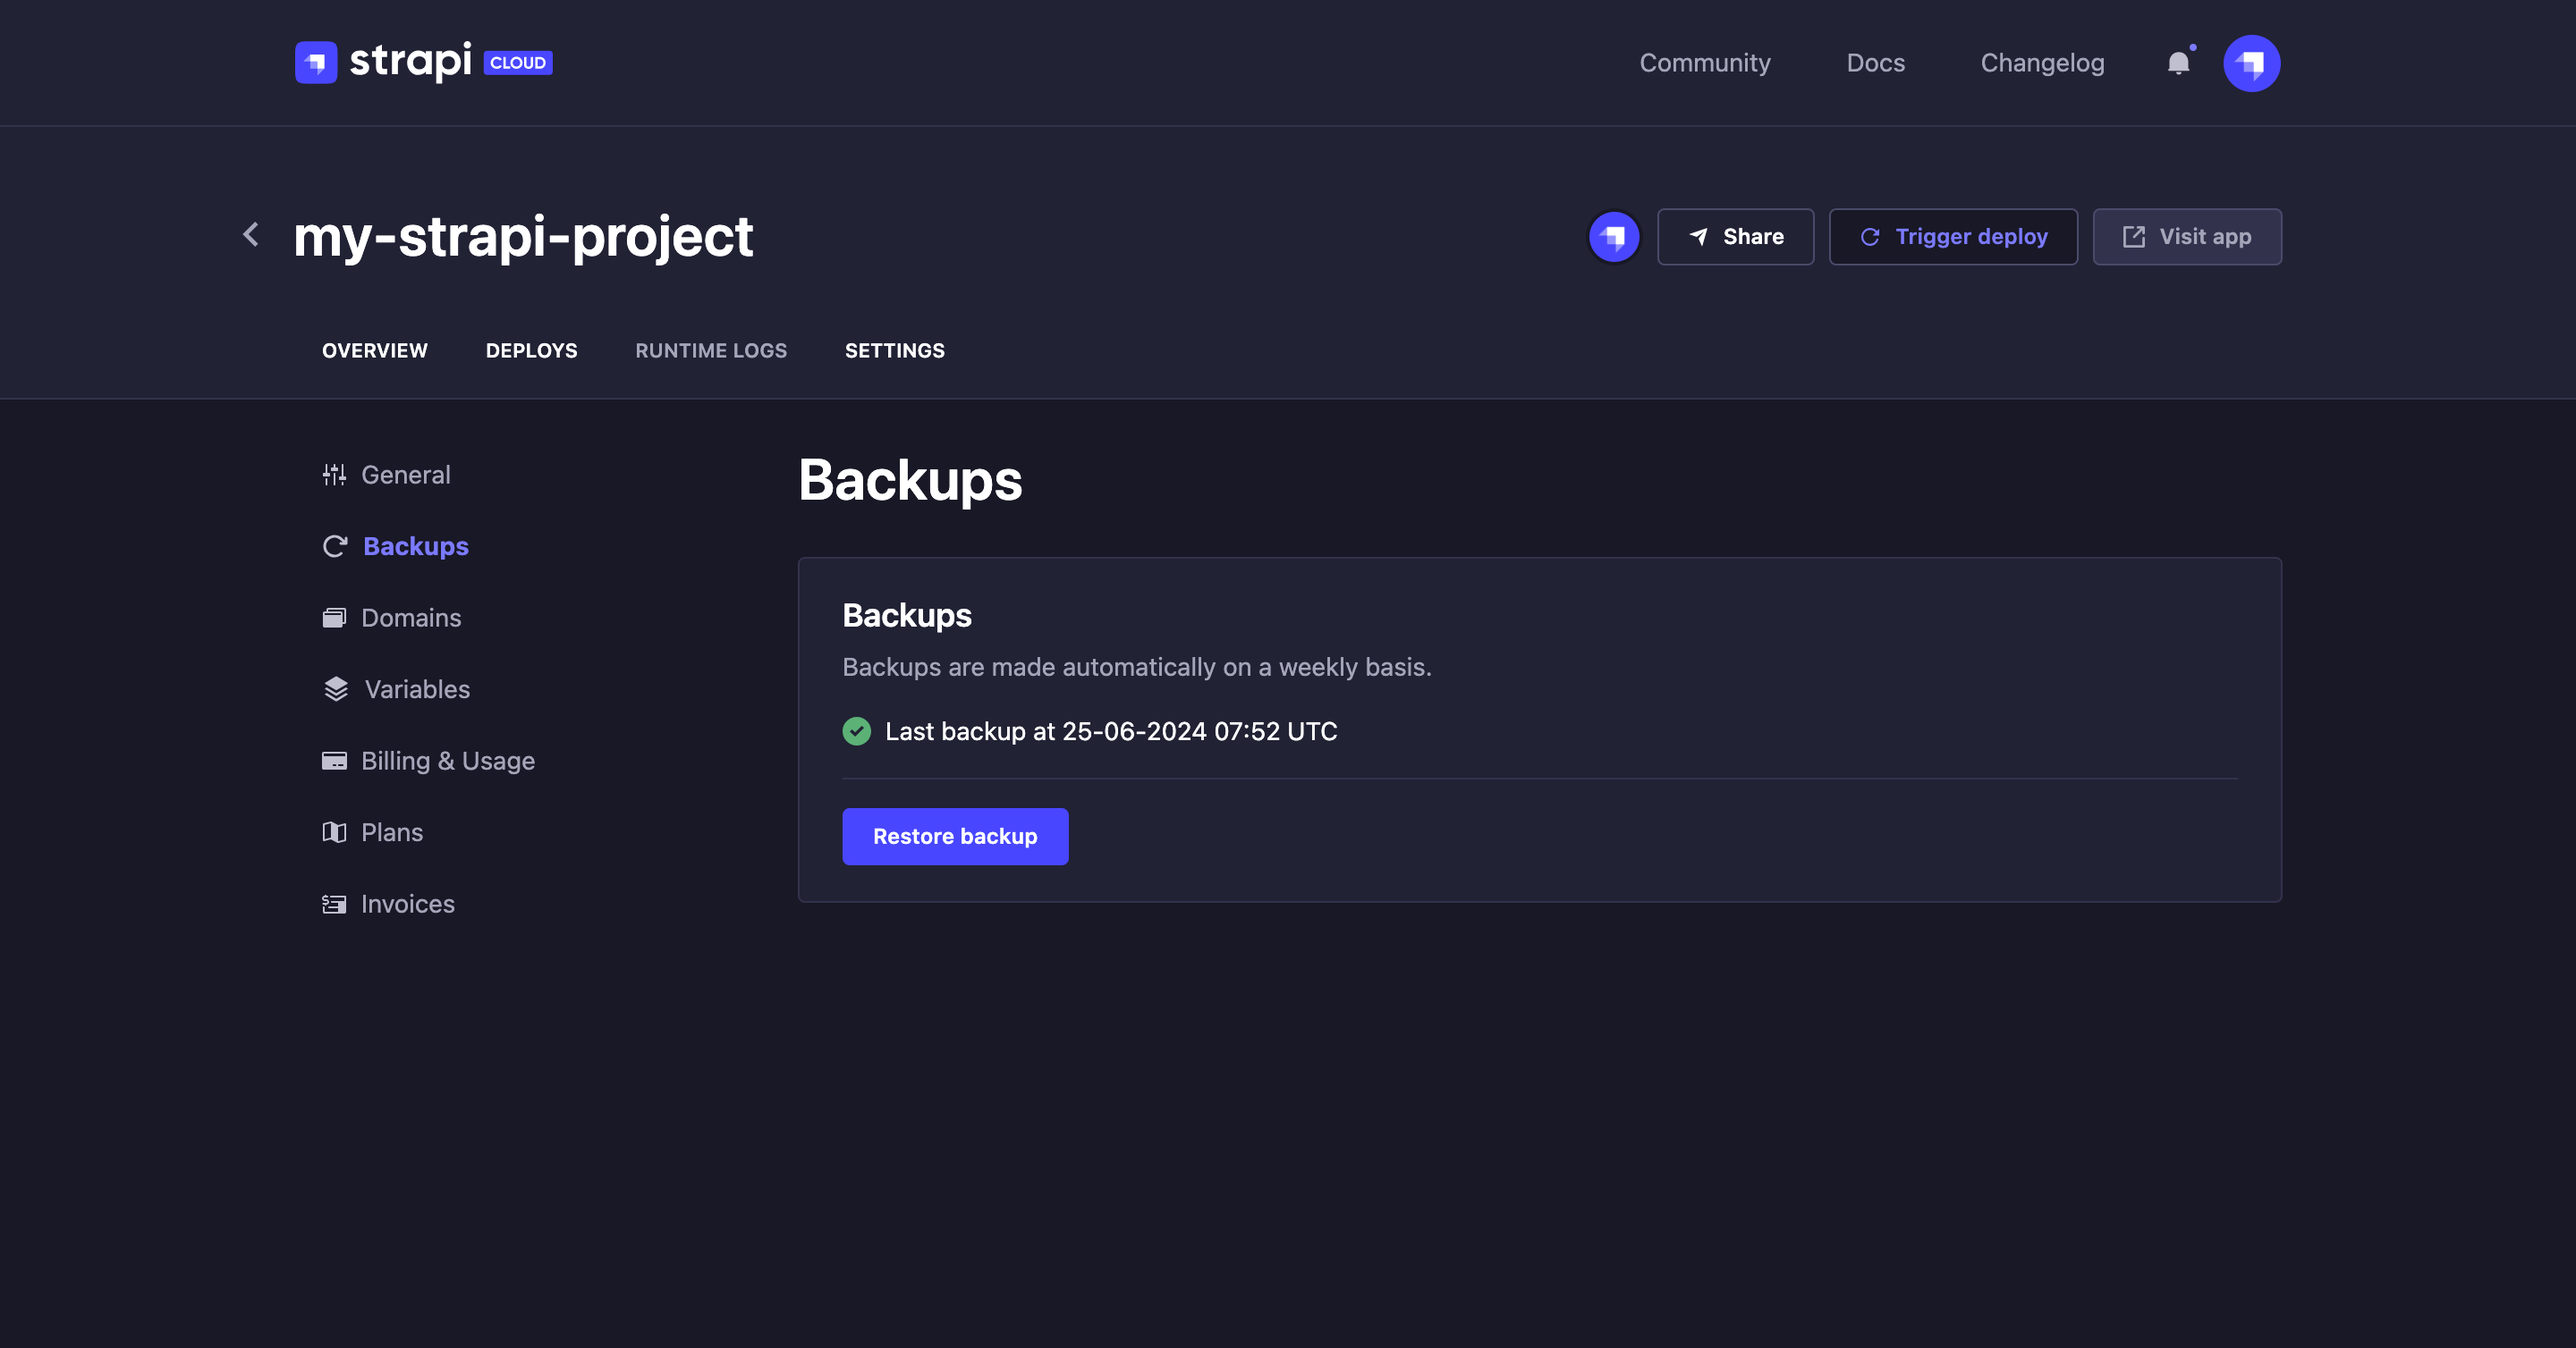
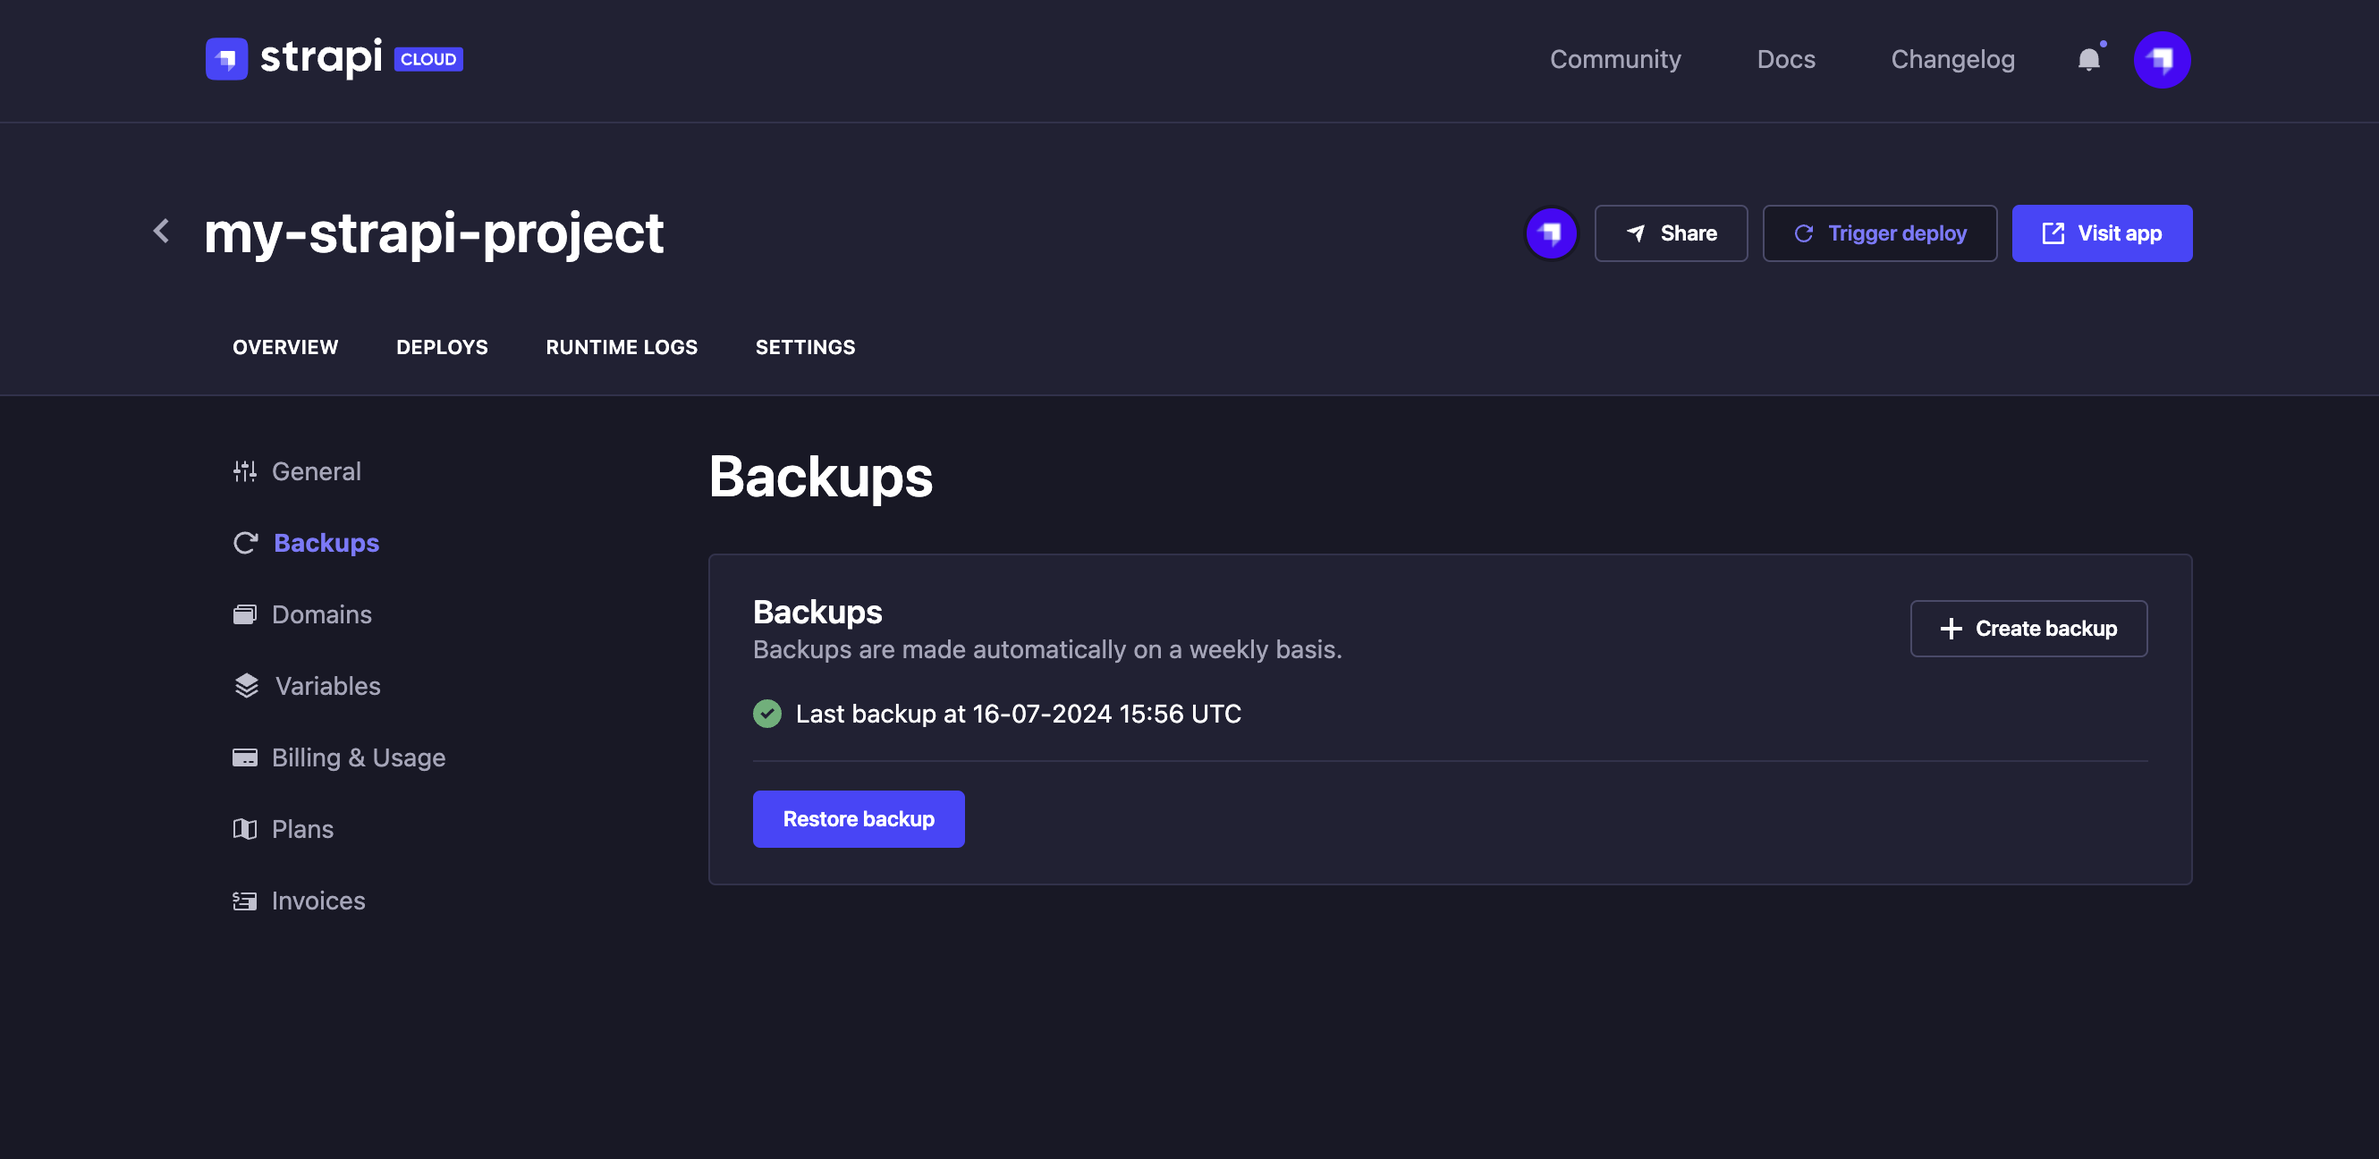
chore: update cloud settings backups

diff --git a/docusaurus/docs/cloud/projects/settings.md b/docusaurus/docs/cloud/projects/settings.md
@@ -100,18 +100,18 @@ You can delete any Strapi Cloud project, but it will be permanent and irreversib
 
 ## Backups <CloudProBadge /> <CloudTeamBadge /> {#backups}
 
-The ![Backups icon](/img/assets/icons/ArrowClockwise.svg) *Backups* tab informs you of the status and date of the latest backup of your Strapi Cloud projects. The databases associated with all existing Strapi Cloud projects are indeed automatically backed up weekly and those backups are retained for a one-month period.
+The ![Backups icon](/img/assets/icons/ArrowClockwise.svg) *Backups* tab informs you of the status and date of the latest backup of your Strapi Cloud projects. The databases associated with all existing Strapi Cloud projects are indeed automatically backed up weekly and those backups are retained for a one-month period. Additionally, you can create a single manual backup.
 
 :::note
-The backup feature is not available for Strapi Cloud projects using the free trial or the Developer plan. You will need to upgrade to either the Pro or Team plan to have your project automatically backed up.
+The backup feature is not available for Strapi Cloud projects using the free trial or the Developer plan. You will need to upgrade to either the Pro or Team plan to have your project automatically backed up and to have access to manual backups.
 
 Note also that only project owners can restore a backup. Maintainers have access to the ![Backups icon](/img/assets/icons/ArrowClockwise.svg) *Backups* tab but the **Restore backup** button won't be displayed for them. Refer to [Collaboration](/cloud/projects/collaboration) for more information.
-:::
 
+:::
 :::tip
 For projects created before the release of the Backup feature in October 2023, the first backup will automatically be triggered with the next deployment of the project.
+**Manual backup** option should become available shortly after project's first succesful deployment.
 :::
-
 <ThemedImage
   alt="Backups"
   sources={{
@@ -120,12 +120,20 @@ For projects created before the release of the Backup feature in October 2023, t
   }}
 />
 
-### Restoring a backup
+### Creating a manual backup
+To create a manual backup:
 
+1. In the ![Backups icon](/img/assets/icons/ArrowClockwise.svg) *Backups* section, click on the **Create backup** button.
+2. Backup should start imediatelly, restoration or creation of other backups will be disabled until backup is complete.
+
+:::caution
+When creating a new manual backup, any existing manual backup will be deleted. You can only have one manual backup at a time.
+:::
+### Restoring a backup
 If you need to restore a backup of your project:
 
 1. In the ![Backups icon](/img/assets/icons/ArrowClockwise.svg) *Backups* section, click on the **Restore backup** button.
-2. In the dialog, choose one of the available backups of your project in the *Choose backup* drop-down.
+2. In the dialog, choose one of the available backups (automatic or manual) of your project in the *Choose backup* drop-down.
 3. Click on the **Restore** button of the dialog. Once the restoration finished, your project will be back to the state it was at the time of the chosen backup.
 
 ## Domains
